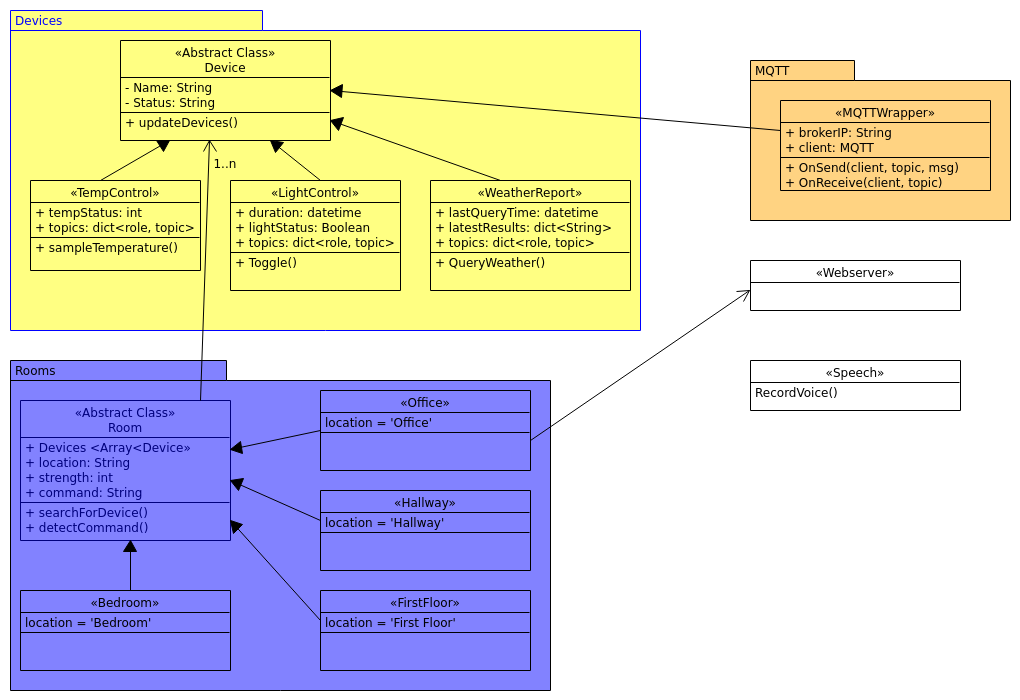
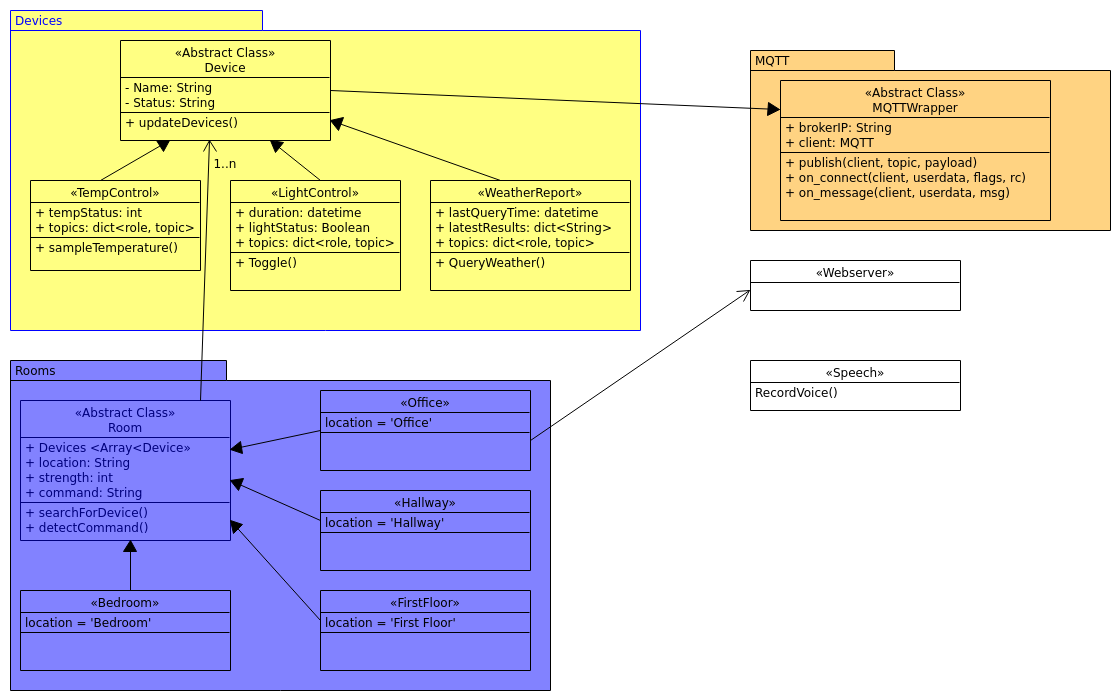
Updated the static design for issue #1 and implemented code for MQTTWrapper for issue #2

diff --git a/MQTT/MQTTWrapper.py b/MQTT/MQTTWrapper.py
@@ -1,0 +1,67 @@
+import paho.mqtt.client as mqtt
+
+'''
+    Abstract wrapper class for the MQTT protocol. 
+    
+    Requires the following dependencies:
+       1) paho-mqtt: python3 -m pip install paho-mqtt
+'''
+class MQTTWrapper:
+
+    '''
+        Constructor for the MQTTWrapper class.
+        @param broker: IP Address of the MQTT broker.
+    '''
+    def __init__(self, broker):
+        self.brokerIP = broker
+        self.client = mqtt.Client()
+
+    '''
+        Abstract Callback function that is defined in the library.
+        function executes when the client receives a CONNACK from broker.
+        @param client: client instances in client / broker relationship.
+        @param userdata: user defined data that is passed as "userdata" to callbacks.
+        @param flags: a dict that contains response flags from the broker
+        @param rc: Determines success or not.
+                 |      0: Connection successful
+                 |      1: Connection refused - incorrect protocol version
+                 |      2: Connection refused - invalid client identifier
+                 |      3: Connection refused - server unavailable
+                 |      4: Connection refused - bad username or password
+                 |      5: Connection refused - not authorised
+    '''
+    def on_connect(self, client, userdata, flags, rc):
+        pass
+
+
+    '''
+        Abstract Callback function that is defined in the library.
+        function executes when the client receives a
+        PUBLISH message from the server.
+        @param client: client instances in client / broker relationship.
+        @param userdata:
+        @param msg: MQTTMessage that describes all of the message parameters.
+    '''
+    def on_message(self, client, userdata, msg):
+        pass
+
+
+    '''
+        Publishes a message to the broker pertaining to a given topic.
+        @param client: client instances in client / broker relationship.
+        @param topic: The topic that the message should be published on.
+        @param payload: The actual message to send.
+                        Passing an int or float will result in the payload
+                        being converted to a string representing that number.
+        @return: Instance of MQTTMessageInfo class which can be used to determine
+                 success of message publish.
+    '''
+    def publish(self, client, topic, payload):
+        success = ''
+
+        try:
+            success = client.publish(topic, payload)
+        except Exception as e:
+            print("Publish has failed.\n{}".format(str(e)))
+
+        return success
